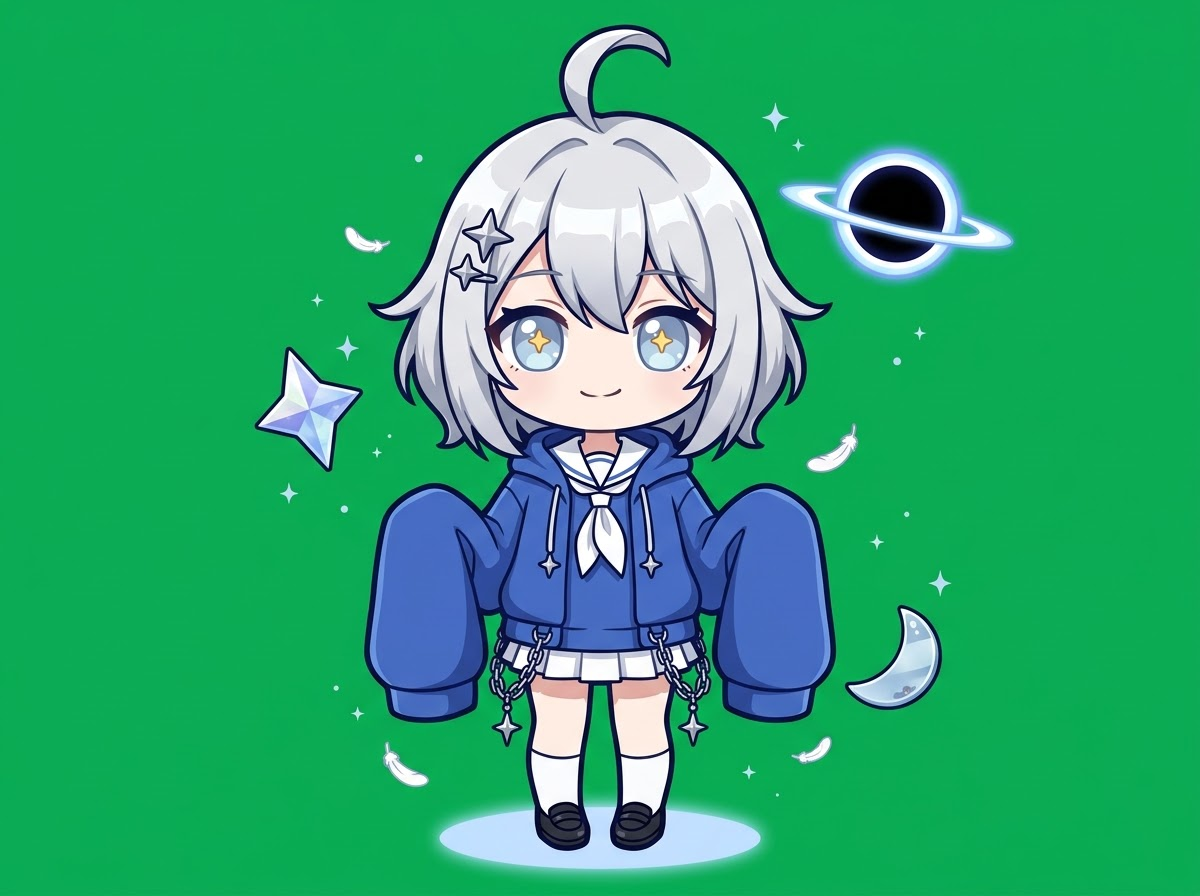
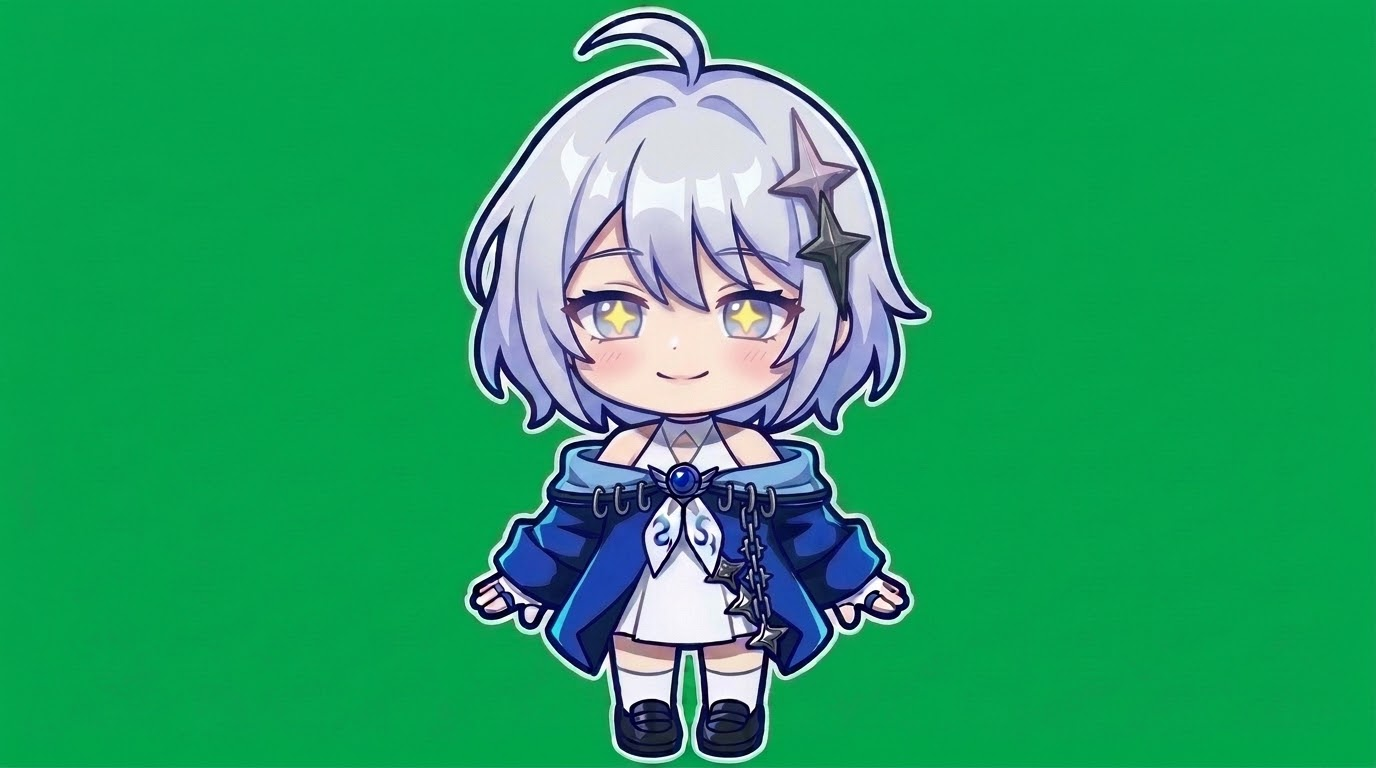
Art review loop v4-v9; v9 approved as chibi master (only minor issues)

Changed region(s): [[0.2158, 0.0, 0.8633, 1.0], [0.7708, 0.625, 0.8017, 0.6562], [0.2158, 0.5312, 0.2467, 0.5625]]

diff --git a/art/review/review.html b/art/review/review.html
@@ -24,10 +24,10 @@ const ver = P.get('v') || '';
 const PANELS = {
   style:    { ref: 'ref/style_target.png', box: [0, 0, 1, 1], label: 'ART STYLE target (left) vs candidate (right)' },
   full:     { ref: 'ref/full.png', box: [0, 0, 1, 1], label: 'Full body / overall' },
-  ornament: { ref: 'ref/hair_ornament.jpg', box: [0.50, 0.02, 1.00, 0.42], label: 'Hair ornament (two stacked stars, her left side)' },
-  eyes:     { ref: 'ref/eyes.jpg',          box: [0.15, 0.18, 0.85, 0.40], label: 'Eyes / pupils (blue iris, yellow star pupil)' },
-  chest:    { ref: 'ref/chest.jpg',         box: [0.15, 0.38, 0.85, 0.62], label: 'Chest (hook loops on cord, brooch, ascot)' },
-  buttons:  { ref: 'ref/jacket_front.jpg',  box: [0.10, 0.45, 0.90, 0.90], label: 'Jacket front (three star ornaments like buttons, chain trim)' },
+  ornament: { ref: 'ref/hair_ornament.jpg', box: [0.50, 0.05, 1.00, 0.45], label: 'Hair ornament (two stacked stars, her left side)' },
+  eyes:     { ref: 'ref/eyes.jpg',          box: [0.15, 0.36, 0.85, 0.54], label: 'Eyes / pupils (blue iris, yellow star pupil)' },
+  chest:    { ref: 'ref/chest.jpg',         box: [0.12, 0.56, 0.88, 0.74], label: 'Chest (hook loops on cord, brooch, ascot)' },
+  buttons:  { ref: 'ref/jacket_front.jpg',  box: [0.10, 0.60, 0.90, 0.92], label: 'Jacket front (three star ornaments like buttons, chain trim)' },
 };
 const cfg = PANELS[panel];
 document.getElementById('t').textContent = `Nascence chibi review — ${cfg.label} ${ver ? '— ' + ver : ''}`;

diff --git a/art/tools/render_clip.py b/art/tools/render_clip.py
@@ -1,0 +1,131 @@
+"""Green-screen clip/image -> 888x748 transparent WebM (VP9 alpha) for dsh-nascence-pet.
+
+Usage:
+  python render_clip.py IN OUT.webm [--fps 30] [--start S] [--dur D] [--scale 0.82] [--reverse]
+                        [--box x0,y0,x1,y1]   # fixed crop box in source pixels (keep identical across clips)
+IN can be a video (mp4/webm) or a single image (renders a 1.5 s still).
+
+Keying: chroma distance from the dominant background green, soft edge, green despill.
+"""
+import argparse
+import os
+import subprocess
+import sys
+import tempfile
+
+import cv2
+import numpy as np
+
+FF = r"C:\Users\Administrator\AppData\Local\Programs\Python\Python312\Lib\site-packages\imageio_ffmpeg\binaries\ffmpeg-win-x86_64-v9.0.2.exe"
+W, H = 888, 748
+
+
+def read_frames(path, start, dur, fps):
+    ext = os.path.splitext(path)[1].lower()
+    if ext in (".png", ".jpg", ".jpeg", ".webp"):
+        im = cv2.imread(path, cv2.IMREAD_COLOR)
+        return [im] * int(round((dur or 1.5) * fps))
+    cap = cv2.VideoCapture(path)
+    src_fps = cap.get(cv2.CAP_PROP_FPS) or fps
+    frames, t = [], 0
+    i = 0
+    while True:
+        ok, im = cap.read()
+        if not ok:
+            break
+        t = i / src_fps
+        i += 1
+        if t < start:
+            continue
+        if dur and t >= start + dur:
+            break
+        frames.append(im)
+    # resample to target fps
+    n_out = int(round(len(frames) * fps / src_fps))
+    if n_out and n_out != len(frames):
+        idx = np.linspace(0, len(frames) - 1, n_out).round().astype(int)
+        frames = [frames[k] for k in idx]
+    return frames
+
+
+def bg_color(im):
+    h, w = im.shape[:2]
+    border = np.concatenate([im[:8].reshape(-1, 3), im[-8:].reshape(-1, 3),
+                             im[:, :8].reshape(-1, 3), im[:, -8:].reshape(-1, 3)])
+    return np.median(border, axis=0)
+
+
+def key(im, bg):
+    f = im.astype(np.float32)
+    b, g, r = f[..., 0], f[..., 1], f[..., 2]
+    # "greenness" = how much green exceeds the max of red/blue, compared to the background's
+    gx = g - np.maximum(r, b)
+    bgx = float(bg[1] - max(bg[0], bg[2]))
+    t = np.clip(gx / max(bgx, 1.0), 0, 1)          # 1 = pure background
+    alpha = 1.0 - np.clip((t - 0.25) / 0.5, 0, 1)   # soft ramp
+    alpha = cv2.GaussianBlur(alpha, (3, 3), 0)
+    # despill: limit green to max(r, b) where partly transparent or greenish
+    spill = g > np.maximum(r, b)
+    g2 = np.where(spill, np.maximum(r, b) + (g - np.maximum(r, b)) * 0.15, g)
+    out = np.dstack([b, g2, r, alpha * 255]).clip(0, 255).astype(np.uint8)
+    return out
+
+
+def place(rgba, box, scale):
+    if box:
+        x0, y0, x1, y1 = box
+        rgba = rgba[y0:y1, x0:x1]
+    h, w = rgba.shape[:2]
+    s = min(W * 0.98 / w, H * scale / h)
+    nw, nh = int(w * s), int(h * s)
+    small = cv2.resize(rgba, (nw, nh), interpolation=cv2.INTER_AREA)
+    canvas = np.zeros((H, W, 4), np.uint8)
+    x, y = (W - nw) // 2, H - nh - int(H * 0.02)
+    canvas[y:y + nh, x:x + nw] = small
+    return canvas
+
+
+def auto_box(frames, bg):
+    """Union bbox of opaque pixels over all frames (padded), so crop is stable."""
+    acc = None
+    for im in frames[:: max(1, len(frames) // 12)]:
+        a = key(im, bg)[..., 3] > 40
+        acc = a if acc is None else (acc | a)
+    ys, xs = np.nonzero(acc)
+    pad = 16
+    return [max(0, xs.min() - pad), max(0, ys.min() - pad),
+            min(acc.shape[1], xs.max() + pad), min(acc.shape[0], ys.max() + pad)]
+
+
+def main():
+    ap = argparse.ArgumentParser()
+    ap.add_argument("inp")
+    ap.add_argument("out")
+    ap.add_argument("--fps", type=int, default=30)
+    ap.add_argument("--start", type=float, default=0)
+    ap.add_argument("--dur", type=float, default=0)
+    ap.add_argument("--scale", type=float, default=0.92)
+    ap.add_argument("--box", type=str, default="")
+    ap.add_argument("--reverse", action="store_true")
+    a = ap.parse_args()
+
+    frames = read_frames(a.inp, a.start, a.dur, a.fps)
+    if not frames:
+        sys.exit("no frames")
+    bg = bg_color(frames[0])
+    box = [int(v) for v in a.box.split(",")] if a.box else auto_box(frames, bg)
+    if a.reverse:
+        frames = frames[::-1]
+    with tempfile.TemporaryDirectory() as td:
+        for i, im in enumerate(frames):
+            rgba = key(im, bg)
+            canvas = place(rgba, box, a.scale)
+            cv2.imwrite(os.path.join(td, f"f{i:04d}.png"), canvas)
+        subprocess.run([FF, "-v", "error", "-y", "-framerate", str(a.fps), "-i", os.path.join(td, "f%04d.png"),
+                        "-c:v", "libvpx-vp9", "-pix_fmt", "yuva420p", "-b:v", "0", "-crf", "30",
+                        "-auto-alt-ref", "0", "-row-mt", "1", a.out], check=True)
+    print(a.out, len(frames), "frames", "box", box)
+
+
+if __name__ == "__main__":
+    main()

diff --git a/art/review/notes/v3_art_director.md b/art/review/notes/v3_art_director.md
@@ -1,0 +1,14 @@
+# v3 art-director review (subagent, screenshots only)
+Verdict: 仍有严重/中等问题
+Severe: style soft/cheap (need bold navy outline + neon rim, hard 2-3 tone cel); floating props/sparkles noisy;
+translucent streamers unkeyable; star buttons too small & scattered (need 3 large gunmetal in vertical row on front edge
++ spiked star-link chain); chest loops drawn as scalloped lace (need dark cord + sharp upward C-hooks, gunmetal).
+Medium: open grin + small fang; head:body 1:1.6, stubby legs, chunky shoes; vivid ultramarine jacket, navy shadows,
+sky-blue lining; hair stars elongated tip-to-tip, upper pinkish-silver, lower gunmetal w/ inner diamond.
+Minor: lighter sky-lavender iris, larger glowing star pupil, pink lower lash line; opaque or no ground shadow; solid hair edge.
+
+# Loop summary
+v4: bold sticker restyle (fixed 9/12). v5: 3 stars + single chain, white outline. v6: off-shoulder fixed, hooks regressed.
+v7: hooks restored. v8: client direction -> serene divine closed-mouth smile. v9: chain beside stars, softer hair shadows.
+v9 verdict: 只剩轻微问题 (minor: hook size, chain finesse, star colors, slight lavender hair drift, eye liner, 2nd shadow tone, gloves).
+MASTER = art/keyframes/v9_0.jpg

diff --git a/art/design/character-sheet.md b/art/design/character-sheet.md
@@ -11,7 +11,8 @@
   blue wave pattern and a blue gem brooch; white dress; white knee socks; black loafers.
 - Style note: borrow only the ART STYLE of dsh-closure-pet (chibi proportions, thick dark lines, cel shading,
   floating props) — never its character design (no hand-hiding mega sleeves).
-- Mood: calm, gentle, a bit mischievous (winks, finger-frame gesture, heart hands, "好宇宙…" spaced-out face).
+- Mood: pure, flawless, quietly divine — a serene gentle smile (closed or softly parted lips, NO fang, never impish
+  or devilish), calm kind eyes; playfulness only in gestures (wink, finger-frame, heart hands, "好宇宙…" spaced-out face).
 - Motif: cosmos, black hole with an accretion ring, orbit lines, four-pointed stars, moon, white feathers.
 
 ## Chibi pet style (matches dsh-closure-pet)
